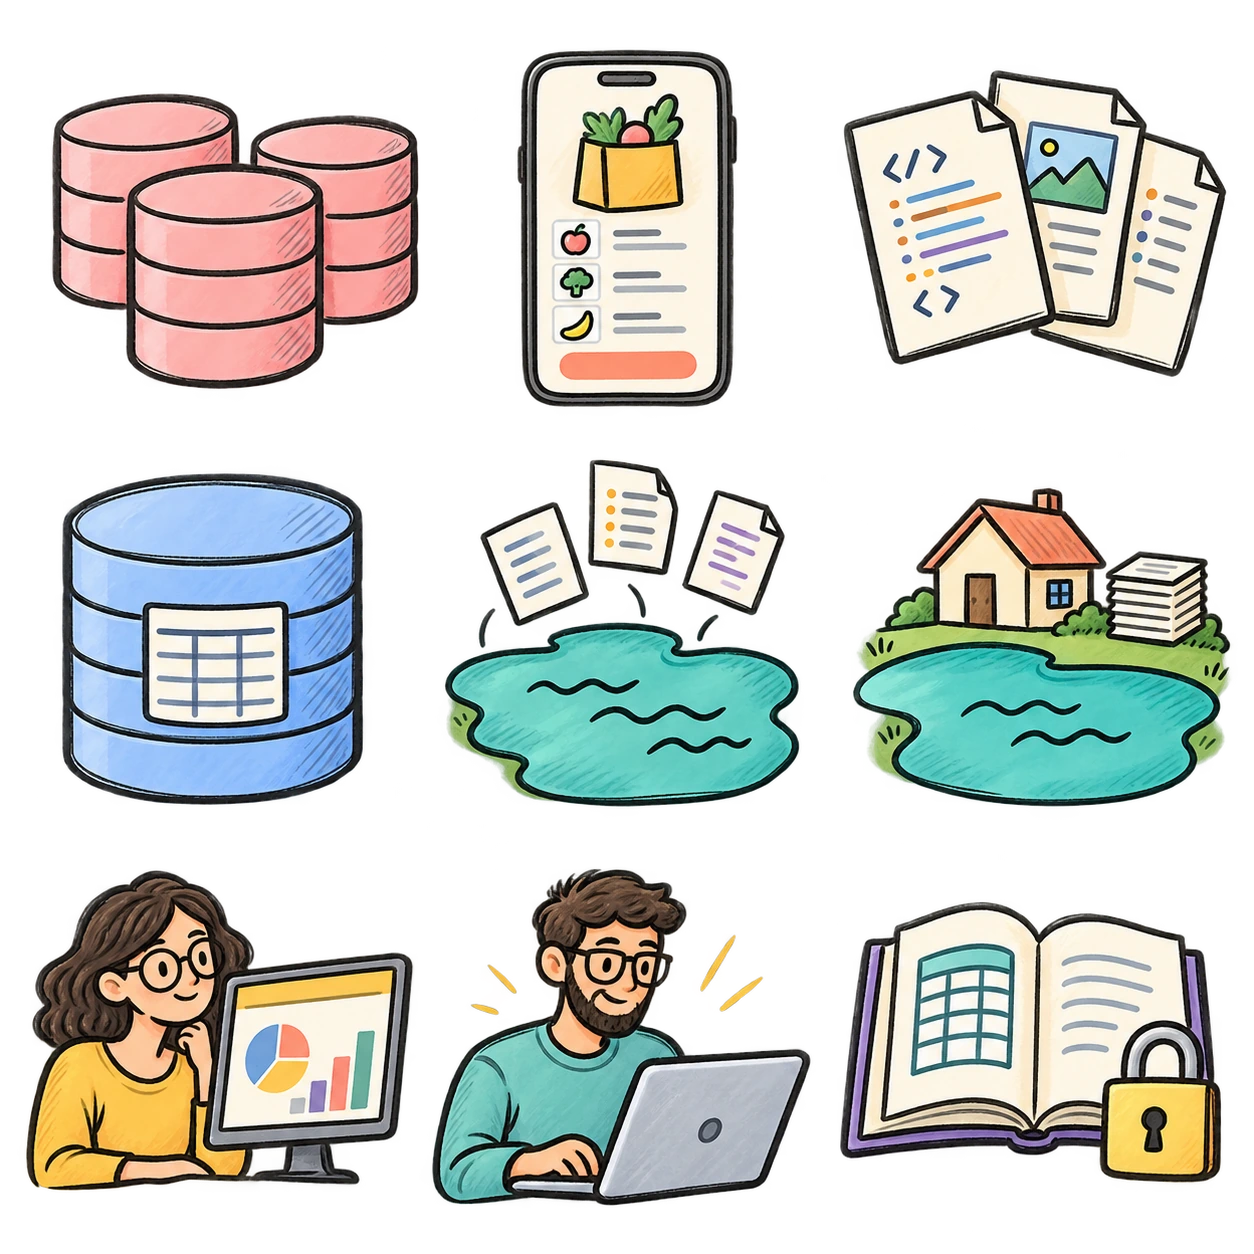
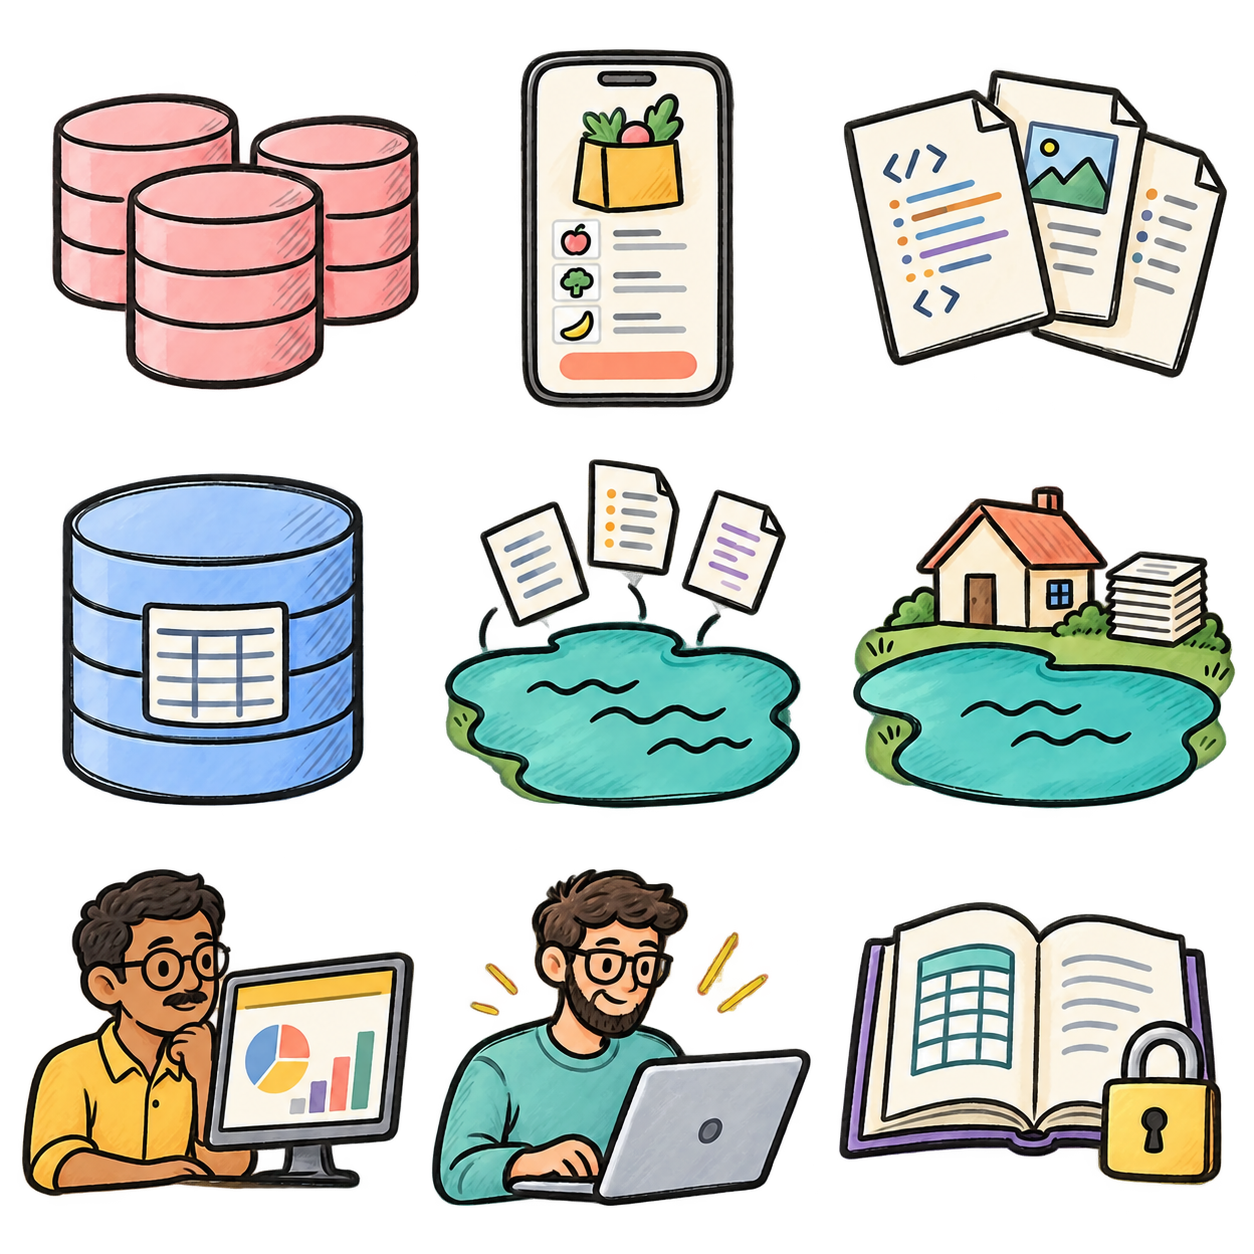
Add the story figure sheet and re-centre the atlas cells

diff --git a/assets/img/architecture/README.md b/assets/img/architecture/README.md
@@ -1,0 +1,38 @@
+# Story illustrations
+
+`whiteboard-atlas.webp` is the original 3 × 3 illustration sheet.
+`story-figures.webp` adds nine transparent illustrations in the same style.
+Some of its drawings cross their cell lines, so the slides use `story-figures-cells.webp` and
+`whiteboard-atlas-cells.webp`: the same drawings, with every drawing that touches a cell edge re-centred inside
+its own cell (cells already clear of their edges are copied unchanged). Regenerate them after editing a source sheet.
+All people in both sheets are men, with varied skin tones and outfits.
+The original analyst has also been revised to match this preference.
+Both sheets use equal square cells, read left to right, top to bottom.
+
+| New figure kind | Subject |
+| --- | --- |
+| `stakeholders` | Business colleagues discussing a chart |
+| `scientist` | Data scientist with laptop and model |
+| `operations` | Operations lead with clipboard, parcel and clock |
+| `steward` | Governance steward with shield and locked document |
+| `customer` | Customer with phone and grocery bag |
+| `courier` | Courier on a delivery scooter |
+| `payment` | Payment card and receipt |
+| `quality` | Magnifying glass checking a data table |
+| `monitoring` | Monitor, clock and alert bell |
+
+Use these through the existing story helper, for example:
+
+```js
+art('stakeholders', 500, 0, 200, 'The teams', '', 'cover-teams')
+art('scientist', 1200, 305, 150, 'Data scientists', 'Explore + ML', 'scientist')
+```
+
+Keep captions as HTML so they stay editable and accessible. Artwork is decorative;
+its meaning comes from the caption or surrounding text. Keep data IDs stable when
+a figure should move between scenes. Classes also work directly on `.art` elements.
+
+The new sheet was created with the built-in image generation tool, using the
+original atlas as a style reference. The transparent result was converted to
+lossless WebP without resizing. Generation and revision prompts are in `story-figures.prompt.txt` and
+`whiteboard-atlas.prompt.txt`.
